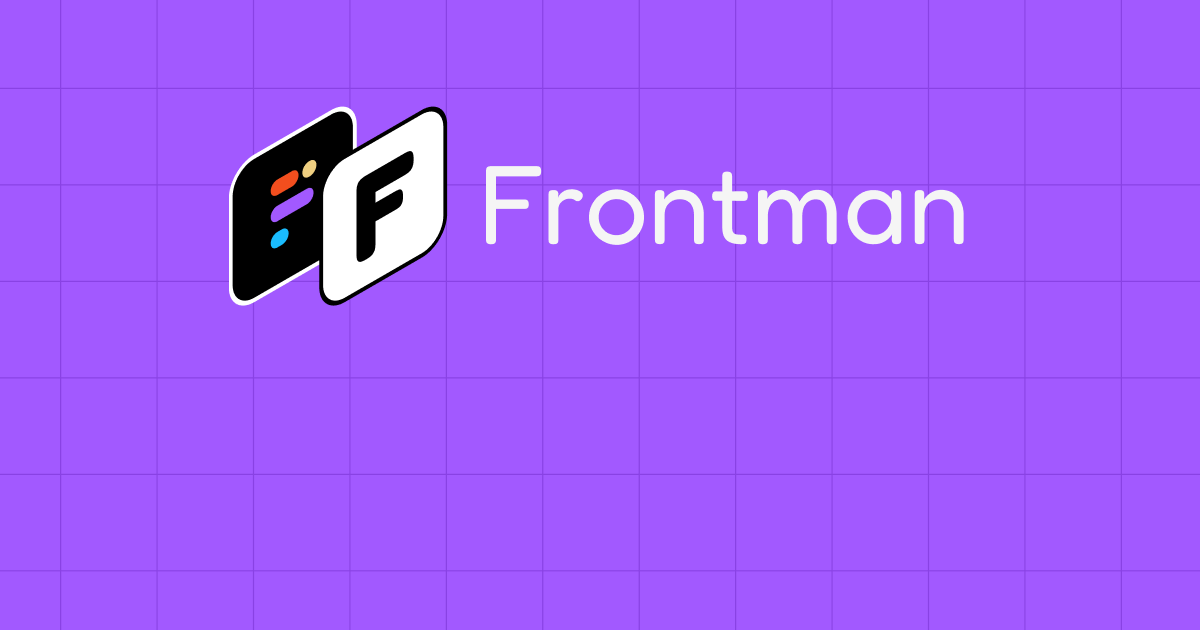
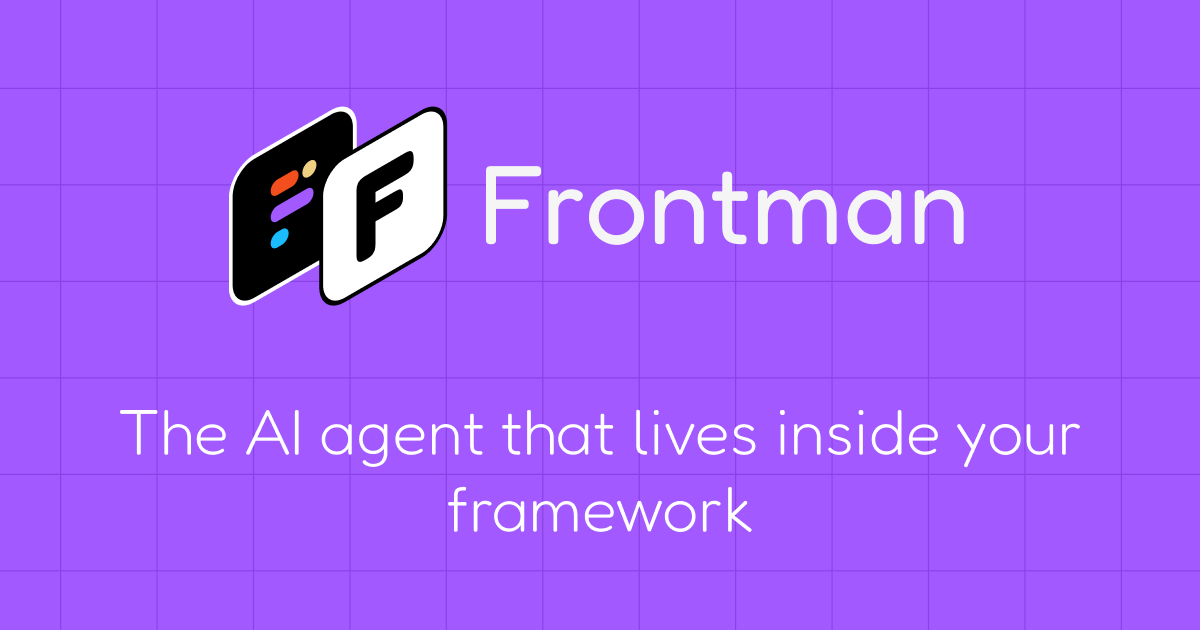
docs: update og.png on marketing site with new branding image

Changed region(s): [[0.0925, 0.6333, 0.8942, 0.754], [0.37, 0.7841, 0.6167, 0.8444]]

diff --git a/README.md b/README.md
@@ -1,6 +1,6 @@
 <p align="center">
   <a href="https://frontman.sh">
-    <img src="./assets/og.png" alt="Frontman" width="600" />
+    <img src="https://frontman.sh/og.png" alt="Frontman" width="600" />
   </a>
 </p>
 
